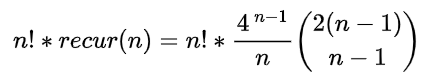
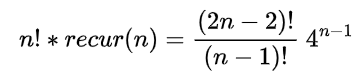
Update README: Latex3

diff --git a/README.md b/README.md
@@ -54,7 +54,7 @@ Output:
    - whether to generate all matching expressions or stop after the first match
    - the expected target value
 2. For each permutation of the input numbers:
-   - use `recur()` to recursively combine the numbers into every possible arithmetic expression using `+`, `-`, `*`, `/`, and parentheses.
+   - use `recur()` to recursively combine the numbers into every possible arithmetic expression using `+`, `-`, `*`, `/`, and parentheses
    - evaluate each generated expression using `eval()`
    - if the evaluated result matches the target within a tiny floating-point tolerance, store the expression in a result set
 3. If the user chose not to generate all expressions, the program stops early once it finds any solution.
@@ -76,7 +76,7 @@ If `recur([a, b])` is called,
 If `recur([a, b, c])` is called,
 - Two splits: `recur([a]) and recur([b, c])`, and `recur([a, b]) and recur([c])`, will be made.
 - Focusing on the 1st split, `['a']` and `['(b + c)', '(b - c)', 'b * c', 'b / c']` are returned respectively.
-  - For the pair `'a'` and `'(b + c)'`, 4 expressions `'(a + (b + c))'`, `'(a - (b + c))'`, `'(a * (b + c))'`, `'(a / (b + c))'` are created.
+  - For the pair `'a'` and `'(b + c)'`, 4 expressions `'(a + (b + c))'`, `'(a - (b + c))'`, `'a * (b + c)'`, `'a / (b + c)'` are created.
   - The other 3 pairs also create 4 expressions each, so the 1st split creates 16 expressions.
 - Similarly, the 2nd split also creates 16 expressions.
 - So, 32 expressions are returned and to be evaluated.
